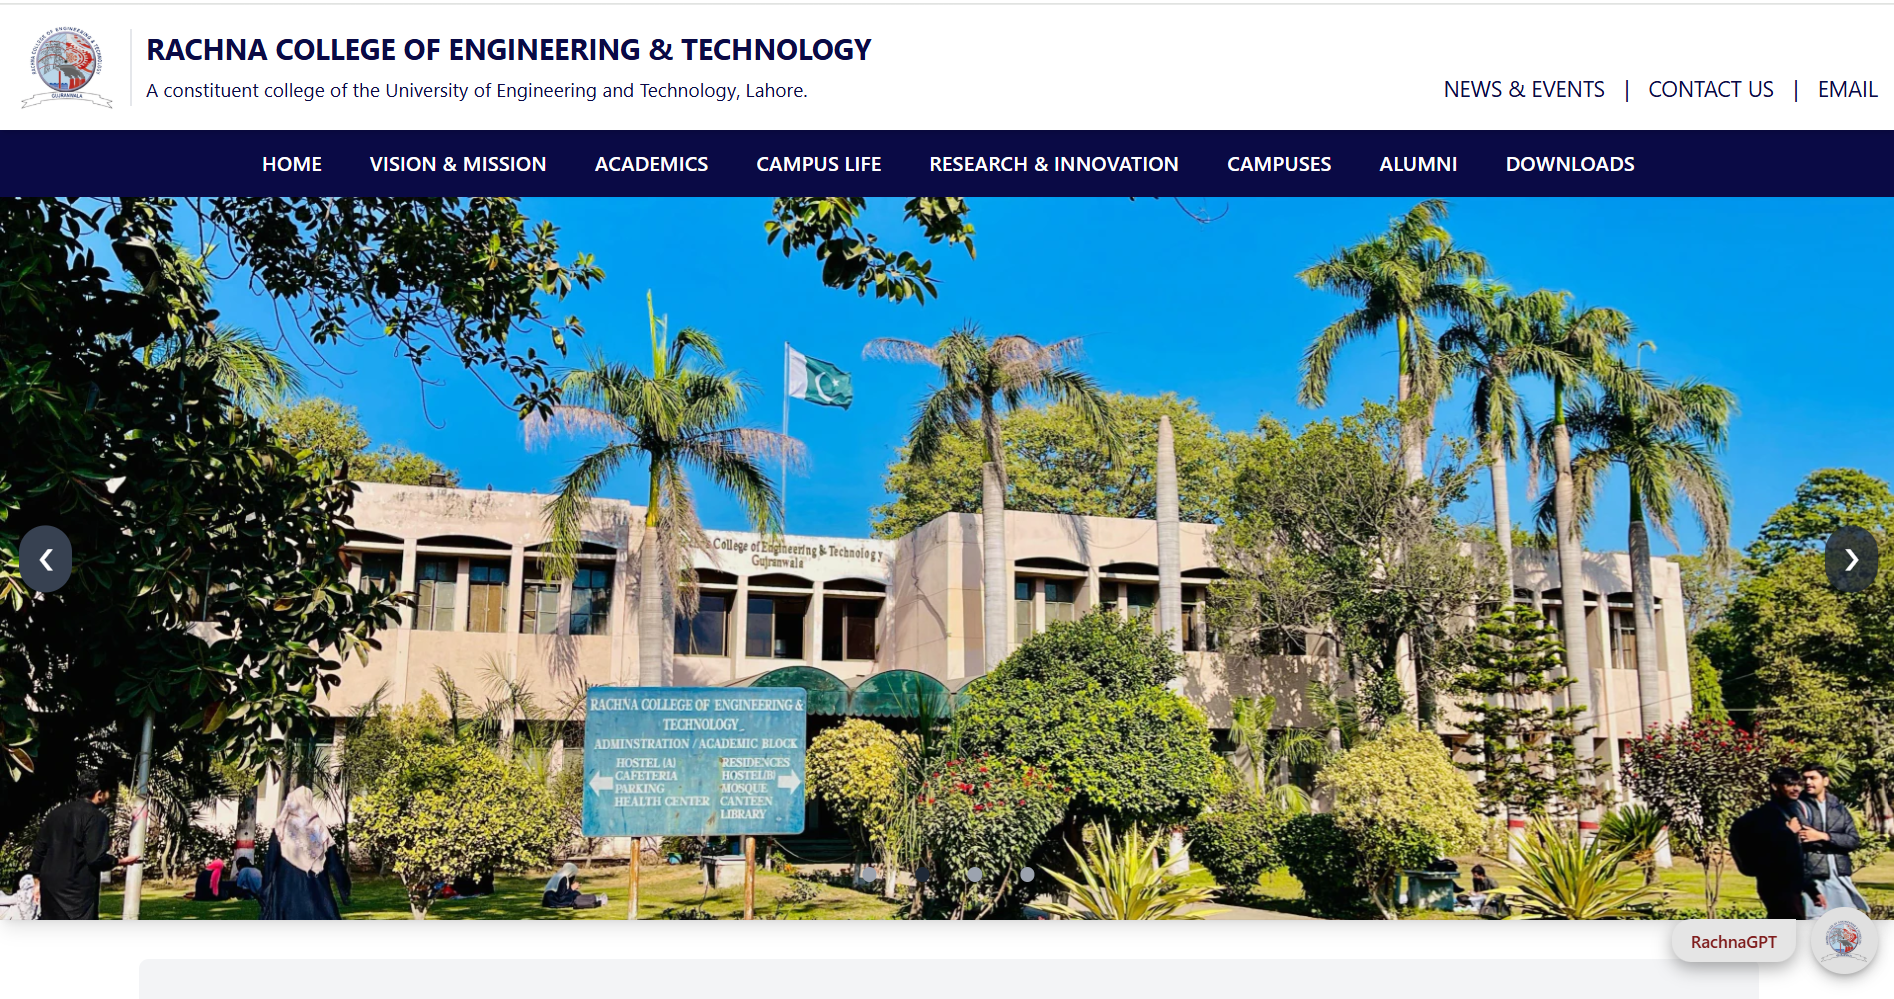
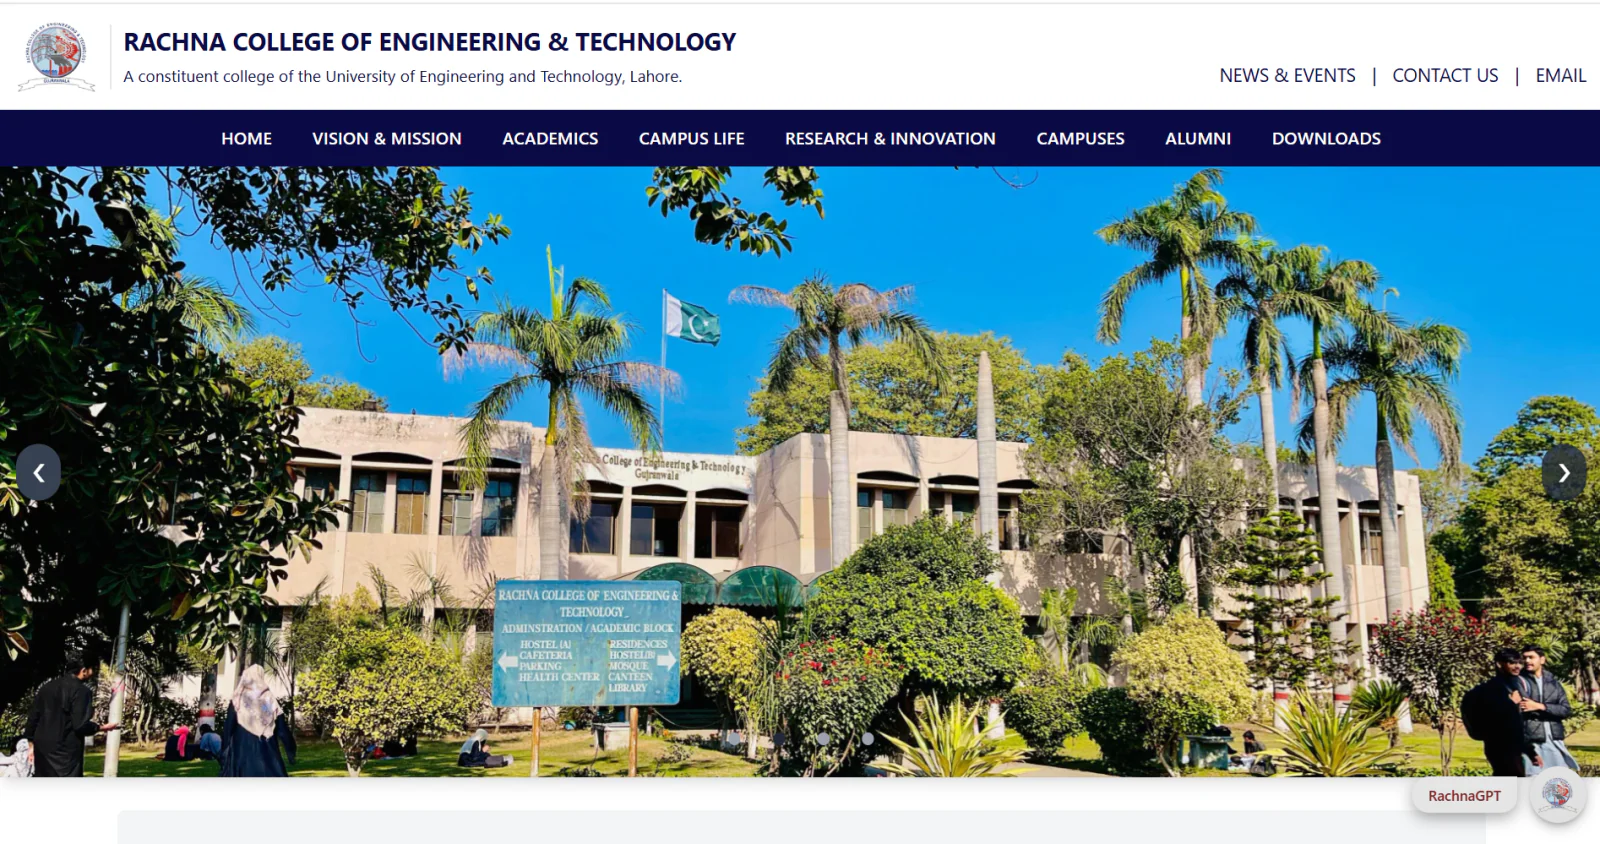
feat: improve portfolio SEO, performance, and production monitoring
Refine page titles and linked JSON-LD identities with explicit project programming languages. Optimize hero loading, fonts, and responsive project screenshots, and clarify educational ML project claims.

Add weekly GitHub Actions monitoring, bounded HTTP retries, transport tests, and a typecheck command. Document setup, deployment, monitoring, and screenshot provenance; update repository and deployment exclusions and remove obsolete design configuration.

diff --git a/data/projects.ts b/data/projects.ts
@@ -15,6 +15,7 @@ export const projects: Project[] = [
     role: "Full Stack Developer · Personal Project",
     status: "live",
     techStack: ["React", "Node.js", "Express.js", "PostgreSQL", "Tailwind CSS"],
+    programmingLanguages: ["JavaScript", "CSS", "HTML"],
     stats: [
       { label: "Stack", value: "PERN" },
       { label: "Roles", value: "3 Types" },
@@ -55,9 +56,8 @@ export const projects: Project[] = [
     featured: {
       screenshot: {
         src: "/projects/rcet-university-website.webp",
-        width: 1894,
-        height: 999,
-        lossless: true,
+        width: 1600,
+        height: 844,
         alt: "RCET university website showing the campus, main navigation, and university information",
       },
       problem: "Inconsistent layouts, confusing navigation, and slow page loads made university information harder to find and created a frustrating browsing experience.",
@@ -71,6 +71,7 @@ export const projects: Project[] = [
     role: "Frontend Developer / University Project",
     status: "live",
     techStack: ["React", "Vite", "JavaScript", "Tailwind CSS", "Material UI"],
+    programmingLanguages: ["JavaScript", "CSS"],
     stats: [
       { label: "Scope", value: "Full Website" },
       { label: "Focus", value: "Design & UX" },
@@ -125,6 +126,7 @@ export const projects: Project[] = [
     role: "Mobile Developer (Solo)",
     status: "archived",
     techStack: ["Flutter", "TensorFlow Lite", "Dart"],
+    programmingLanguages: ["Dart"],
     stats: [
       { label: "Platform", value: "iOS + Android" },
       { label: "Inference", value: "On-device" },
@@ -164,7 +166,6 @@ export const projects: Project[] = [
         src: "/projects/mehar-motors.webp",
         width: 1797,
         height: 993,
-        lossless: true,
         alt: "Mehar Motors car rental website with fleet browsing and a vehicle preview",
       },
       problem: "Customers needed to browse cars and send rental inquiries without repeating their vehicle and travel details.",
@@ -178,6 +179,7 @@ export const projects: Project[] = [
     role: "Frontend Developer · Client Project",
     status: "live",
     techStack: ["Next.js", "React", "JavaScript", "CSS"],
+    programmingLanguages: ["JavaScript", "CSS"],
     stats: [
       { label: "Fleet", value: "10 Vehicles" },
       { label: "Inquiries", value: "WhatsApp" },
@@ -226,6 +228,7 @@ export const projects: Project[] = [
     role: "Frontend Developer",
     status: "live",
     techStack: ["Next.js", "TypeScript", "Tailwind CSS", "Framer Motion"],
+    programmingLanguages: ["TypeScript", "CSS"],
     stats: [
       { label: "Audience", value: "Founders" },
       { label: "Showcase", value: "Search + Filter" },
@@ -265,6 +268,7 @@ export const projects: Project[] = [
     role: "Frontend Developer",
     status: "live",
     techStack: ["Next.js", "TypeScript", "Tailwind CSS", "Embla Carousel"],
+    programmingLanguages: ["TypeScript", "CSS"],
     stats: [
       { label: "Format", value: "Single Page" },
       { label: "Gallery", value: "Embla" },
@@ -299,13 +303,14 @@ export const projects: Project[] = [
   {
     slug: "symptom-checker-ai",
     title: "Symptom Checker AI",
-    tagline: "A machine learning healthcare assistant that predicts likely conditions from reported symptoms.",
+    tagline: "An educational machine learning prototype that classifies symptom inputs; not a diagnostic tool.",
     year: "2025",
     role: "ML Engineer (Solo)",
     status: "archived",
     techStack: ["Python", "Machine Learning", "scikit-learn", "Flask"],
+    programmingLanguages: ["Python", "JavaScript", "CSS", "HTML"],
     stats: [
-      { label: "Accuracy", value: "92%+" },
+      { label: "Scope", value: "Educational" },
       { label: "Model", value: "scikit-learn" },
       { label: "Type", value: "ML / AI" },
     ],
@@ -330,7 +335,10 @@ export const projects: Project[] = [
         detail: "Separating the model behind a REST API keeps the ML pipeline swappable without touching the frontend.",
       },
     ],
-    outcomes: ["92%+ prediction accuracy on the evaluation set"],
+    outcomes: [
+      "Built a symptom-classification prototype with a Flask API and a symptom-entry interface.",
+      "This is an educational project, not a diagnostic tool. No independently verified accuracy benchmark or clinical validation is claimed.",
+    ],
   },
   {
     slug: "botguard-lab",
@@ -340,6 +348,7 @@ export const projects: Project[] = [
     role: "Full Stack Developer (Solo)",
     status: "in-progress",
     techStack: ["MongoDB", "Express.js", "React", "Node.js"],
+    programmingLanguages: ["JavaScript", "CSS", "HTML"],
     stats: [
       { label: "Stack", value: "MERN" },
       { label: "Detection", value: "Real-time" },

diff --git a/lib/json-ld.ts b/lib/json-ld.ts
@@ -5,11 +5,14 @@ export function projectJsonLd(project: Project) {
   return {
     "@context": "https://schema.org",
     "@type": "SoftwareSourceCode",
+    "@id": `${SITE_URL}/projects/${project.slug}#software`,
     name: project.title,
     description: project.tagline,
-    programmingLanguage: project.techStack,
+    programmingLanguage: project.programmingLanguages,
+    author: { "@id": `${SITE_URL}/#person` },
+    mainEntityOfPage: `${SITE_URL}/projects/${project.slug}`,
+    url: `${SITE_URL}/projects/${project.slug}`,
     ...(project.links.github ? { codeRepository: project.links.github } : {}),
-    ...(project.links.live ? { url: project.links.live } : {}),
   };
 }
 
@@ -17,6 +20,7 @@ export function personJsonLd() {
   return {
     "@context": "https://schema.org",
     "@type": "Person",
+    "@id": `${SITE_URL}/#person`,
     name: SITE_NAME,
     url: SITE_URL,
     jobTitle: "Full Stack Web Developer",
@@ -28,8 +32,10 @@ export function websiteJsonLd() {
   return {
     "@context": "https://schema.org",
     "@type": "WebSite",
+    "@id": `${SITE_URL}/#website`,
     name: SITE_NAME,
     url: SITE_URL,
     description: SITE_DESCRIPTION,
+    publisher: { "@id": `${SITE_URL}/#person` },
   };
 }

diff --git a/components/sections/hero-portrait.tsx b/components/sections/hero-portrait.tsx
@@ -2,11 +2,11 @@ import Image from "next/image";
 import heroPortrait from "@/public/Abdul_Rauf.jpeg";
 
 /**
- * Hero portrait with CSS fade-in and responsive sizing.
+ * Keep the LCP portrait visible immediately with responsive sizing.
  */
 export function HeroPortrait() {
   return (
-    <div className="relative mx-auto w-full max-w-sm animate-[fade-up_0.7s_ease-out_both] [animation-delay:150ms]">
+    <div className="relative mx-auto w-full max-w-sm">
       <div
         className="absolute -top-3 -left-3 h-10 w-10 border-t-2 border-l-2 border-accent"
         aria-hidden="true"
@@ -20,9 +20,10 @@ export function HeroPortrait() {
           src={heroPortrait}
           alt="Abdul Rauf, Full Stack Web Developer"
           placeholder="blur"
-          sizes="(min-width: 1024px) 384px, (min-width: 640px) 320px, 90vw"
+          sizes="(min-width: 416px) 384px, calc(100vw - 32px)"
           className="h-full w-full object-cover object-top"
-          priority
+          loading="eager"
+          fetchPriority="high"
         />
       </div>
     </div>

diff --git a/app/projects/[slug]/page.tsx b/app/projects/[slug]/page.tsx
@@ -111,7 +111,14 @@ export default async function ProjectPage({ params }: PageProps<"/projects/[slug
 
         {project.featured?.screenshot && (
           <div className="mt-10 overflow-hidden rounded-md border border-border">
-            <Image src={project.featured.screenshot.src} alt={project.featured.screenshot.alt} width={project.featured.screenshot.width} height={project.featured.screenshot.height} unoptimized={project.featured.screenshot.lossless} sizes="(min-width: 768px) 720px, 100vw" className="h-auto w-full" />
+            <Image
+              src={project.featured.screenshot.src}
+              alt={project.featured.screenshot.alt}
+              width={project.featured.screenshot.width}
+              height={project.featured.screenshot.height}
+              sizes="(min-width: 1024px) 704px, (min-width: 768px) 720px, (min-width: 640px) calc(100vw - 48px), calc(100vw - 32px)"
+              className="h-auto w-full"
+            />
           </div>
         )}
 

diff --git a/components/sections/hero.tsx b/components/sections/hero.tsx
@@ -9,7 +9,7 @@ export function Hero() {
     <section id="hero" className="scroll-mt-20 pt-32 pb-20 md:pt-40 md:pb-28">
       <Container className="grid items-center gap-12 lg:grid-cols-[1.1fr_0.9fr] lg:gap-16">
         <div className="min-w-0">
-          <h1 className="animate-[ink-focus_0.8s_cubic-bezier(0.16,1,0.3,1)_both] text-5xl leading-[1.1] font-medium text-text sm:text-6xl lg:text-7xl">
+          <h1 className="text-5xl leading-[1.1] font-medium text-text sm:text-6xl lg:text-7xl">
             Hi, I&apos;m <span className="text-accent">Abdul Rauf</span>
           </h1>
           <p className="mt-4 min-h-[2.5rem] animate-[fade-up_0.7s_ease-out_both] text-2xl font-medium text-text-muted [animation-delay:100ms] sm:text-3xl"><HeroTypewriter /></p>

diff --git a/data/experience.ts b/data/experience.ts
@@ -12,7 +12,7 @@ export const experiences: Experience[] = [
     achievements: [
       "Shipped Article Hub: a full-stack publishing platform with RBAC, JWT auth, and PostgreSQL",
       "Built BotGuard Lab: a bot detection platform using behavioral heuristics and real-time risk scoring",
-      "Developed Symptom Checker AI: a machine learning healthcare assistant with 92%+ accuracy",
+      "Developed Symptom Checker AI: an educational symptom-classification prototype using scikit-learn and Flask",
       "Created an on-device object detection app using Flutter and TensorFlow Lite",
       "Delivered 16+ projects across web, desktop, and ML domains",
     ],

diff --git a/app/layout.tsx b/app/layout.tsx
@@ -12,7 +12,7 @@ import "./globals.css";
 const fraunces = Fraunces({
   variable: "--font-fraunces",
   subsets: ["latin"],
-  axes: ["opsz", "SOFT", "WONK"],
+  weight: "500",
   display: "swap",
 });
 
@@ -25,7 +25,7 @@ const inter = Inter({
 export const metadata: Metadata = {
   metadataBase: new URL(SITE_URL),
   title: {
-    default: SITE_NAME,
+    default: SITE_TITLE,
     template: `%s — ${SITE_NAME}`,
   },
   description: SITE_DESCRIPTION,

diff --git a/lib/constants.ts b/lib/constants.ts
@@ -1,6 +1,6 @@
 export const SITE_URL = "https://abdulrauf.dev";
 export const SITE_NAME = "Abdul Rauf";
-export const SITE_TITLE = "Abdul Rauf — Full Stack Web Developer";
+export const SITE_TITLE = "Abdul Rauf — Full Stack Web Developer | React & Next.js";
 export const SITE_DESCRIPTION =
   "Portfolio of Abdul Rauf, a full stack web developer building production-grade web applications.";
 

diff --git a/types/project.ts b/types/project.ts
@@ -18,6 +18,7 @@ export interface Project {
   role: string;
   status: ProjectStatus;
   techStack: string[];
+  programmingLanguages: string[];
   stats: ProjectStat[];
   links: {
     github?: string;
@@ -32,7 +33,6 @@ export interface Project {
       src: string;
       width: number;
       height: number;
-      lossless?: boolean;
       alt: string;
     };
     problem: string;

diff --git a/README.md b/README.md
@@ -23,6 +23,28 @@ Personal portfolio of **Abdul Rauf**, a full stack web developer, built with Nex
 * Working contact form
 * Accessible animations with reduced-motion support
 
+## Setup and deployment
+
+Use Node.js 24. Run `npm ci`, configure `RESEND_API_KEY` in an untracked `.env.local`, and run `npm run dev`. The contact form requires a Resend account with the `abdulrauf.dev` sender domain verified. Never commit credentials; configure the key separately in the existing Vercel project's environment settings.
+
+Before deploying, run `npm run lint` and `npm run build`. `npm run start` serves the production build locally. Vercel uses the existing Next.js preset, repository root, default output directory, and `npm run build`; do not switch to static export because `/api/contact` needs a server runtime. Production is [abdulrauf.dev](https://abdulrauf.dev/). Monitoring does not deploy the website or submit contact forms.
+
+## Weekly monitoring
+
+Open [Actions → Weekly production monitoring](https://github.com/mrrauf99/Portfolio/actions/workflows/weekly-monitor.yml). Runs are scheduled every Tuesday at 07:17 UTC (12:17 Pakistan time), with **Run workflow** available for manual checks. GitHub schedules can be delayed and public-repository schedules can be disabled after inactivity; check the Actions page periodically.
+
+Four independent jobs check production availability/404 handling, sitemap coverage, metadata/responsive images, and JSON-LD/language semantics. Each job has bounded request retries/timeouts and an eight-minute job limit. Read the job summary and logs for PASS/FAIL; download its JSON artifact for details (retained 35 days). Failures in one job do not cancel the others. No Google, Vercel or application secrets are required; the workflow has read-only repository access and installs no npm dependencies.
+
+Run all checks locally with `npm run check:seo`; optionally pass a base URL and report path: `npm run check:seo -- http://localhost:3000 monitoring-report.json`. Run transport failure tests with `node --test scripts/monitor-http.test.mjs`. The workflow file must remain on the default branch for scheduled/manual runs. [The first cloud run passed all four jobs](https://github.com/mrrauf99/Portfolio/actions/runs/42779887144). The Windows task, four dated local triggers and PowerShell wrapper were retired only after that confirmation. Future cron executions still need to be checked in Actions; a manual pass does not prove a future scheduled run has occurred.
+
+For real-world SEO, use the verified [Google Search Console](https://search.google.com/search-console) property for `abdulrauf.dev`: review sitemap processing, Page indexing, URL Inspection and Performance (clicks, impressions and queries). Compare complete 28-day periods and distinguish branded queries. Check mobile/desktop Core Web Vitals and [PageSpeed Insights](https://pagespeed.web.dev/) for p75 LCP, INP and CLS when field data is available. “Insufficient data” is not a pass or failure; Lighthouse lab results do not replace field data. Public monitoring cannot authenticate to Search Console or verify Google's selected canonical/index status.
+
+## Security and maintenance
+
+Keep `.env*`, `.vercel/`, audit evidence and monitoring reports out of commits/deployment uploads. Keep the GitHub Actions token read-only, pin third-party actions to reviewed commit SHAs, and review dependency/action updates before changing them. Retain screenshot provenance in `public/projects/README.md`; historical local audit reports are excluded evidence, not current setup instructions. Tooling/agent instructions are kept separately and are not website documentation.
+
+After changing public routes or project data, rerun `npm run check:seo` and inspect the workflow results. The monitor does not call the contact API, write to Vercel, request indexing or claim ranking gains. GitHub failure notifications follow your account's Actions notification preferences.
+
 ## Developer
 
 **Abdul Rauf**

diff --git a/public/projects/README.md b/public/projects/README.md
@@ -2,7 +2,7 @@
 
 User-supplied screenshots of the deployed RCET and Mehar Motors interfaces. Article Hub intentionally has no project screenshot.
 
-- `rcet-university-website.webp`: user-supplied `Screenshot 2026-11-10 000134.png`, converted to lossless WebP at its original 1894 × 999 resolution. Decoded RGBA pixels verified identical to the source. Served without Next.js image recompression on the case-study page.
-- `mehar-motors.webp`: user-supplied `Screenshot 2026-11-09 235956.png`, converted to lossless WebP at its original 1797 × 993 resolution. Decoded RGBA pixels verified identical to the source. Served without Next.js image recompression on the case-study page. The deployed project uses concept vehicle imagery and illustrative rates, as described in the case study.
+- `rcet-university-website.webp`: user-supplied `Screenshot 2026-11-10 000134.png`, originally 1894 × 999. Resized to 1600 × 844 and encoded as WebP at quality 85 for web delivery (299,610 bytes, down from 1,790,394). The case-study page uses Next.js responsive image optimization, retaining dimensions and descriptive alt text.
+- `mehar-motors.webp`: user-supplied `Screenshot 2026-11-09 235956.png`, retained at 1797 × 993. The case-study page now uses Next.js responsive image optimization rather than bypassing it. The deployed project uses concept vehicle imagery and illustrative rates, as described in the case study.
 
 Featured summaries in `data/projects.ts` condense the existing case-study facts. They do not introduce traffic, revenue, conversion, or performance measurements.
